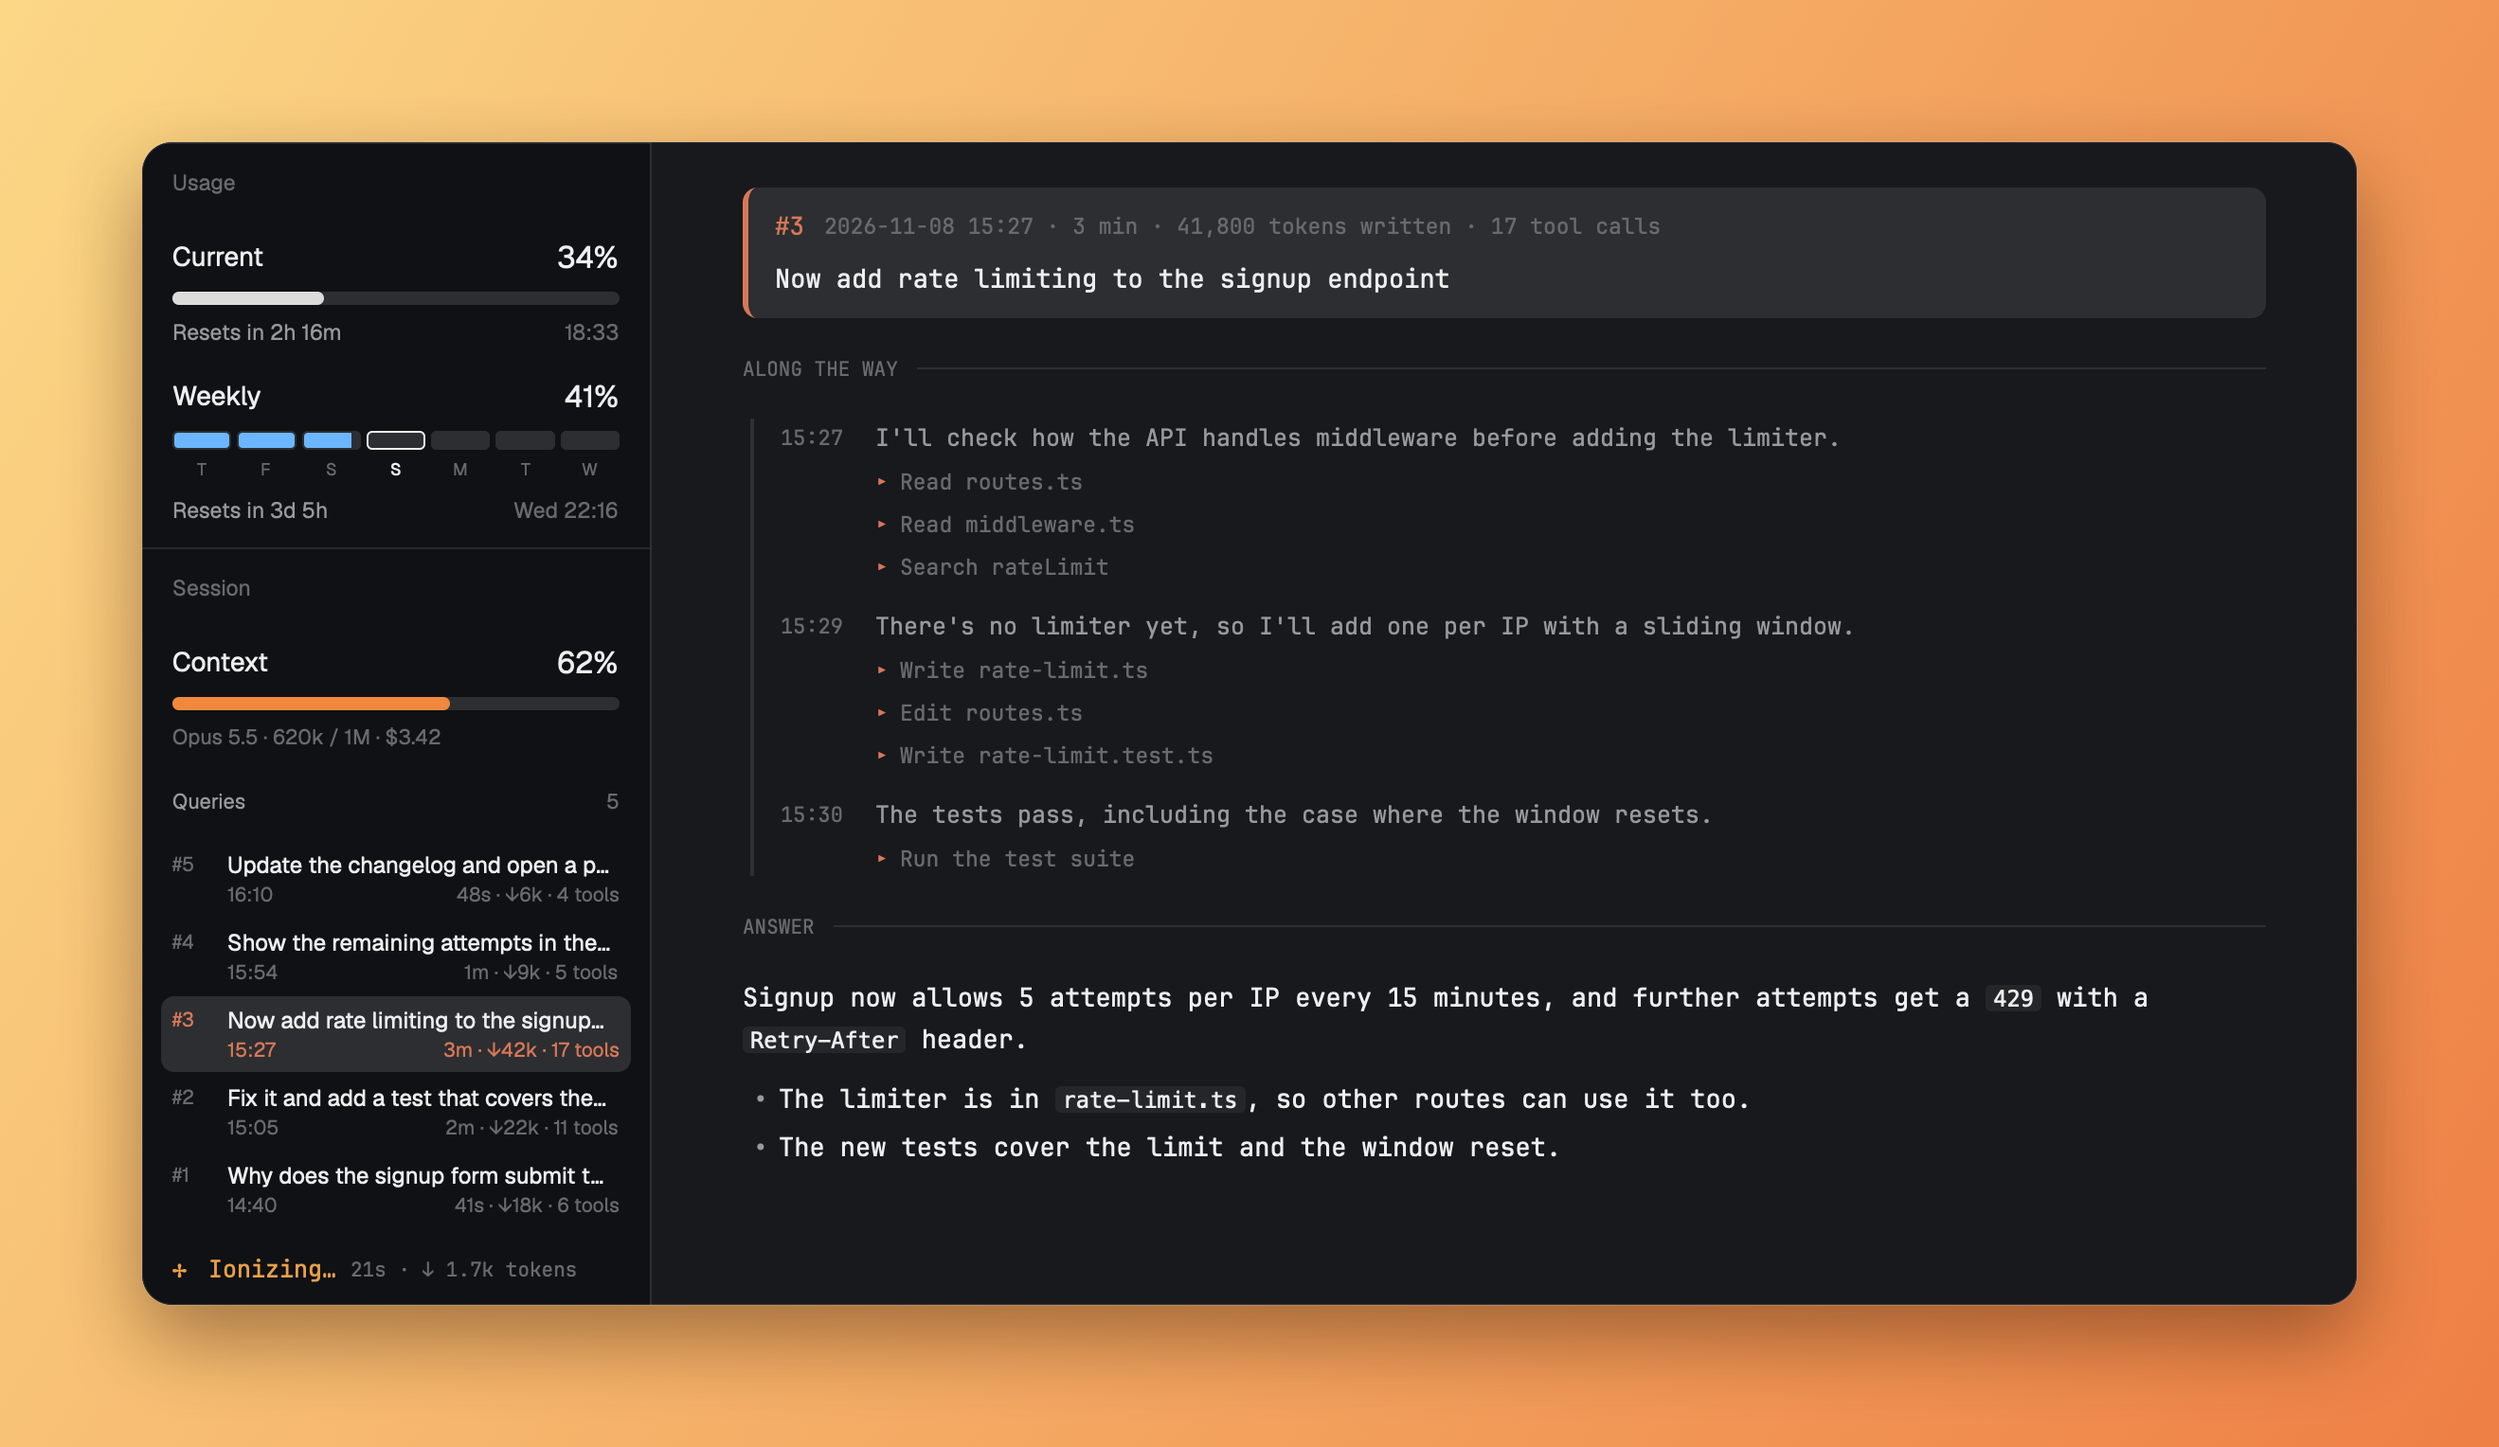
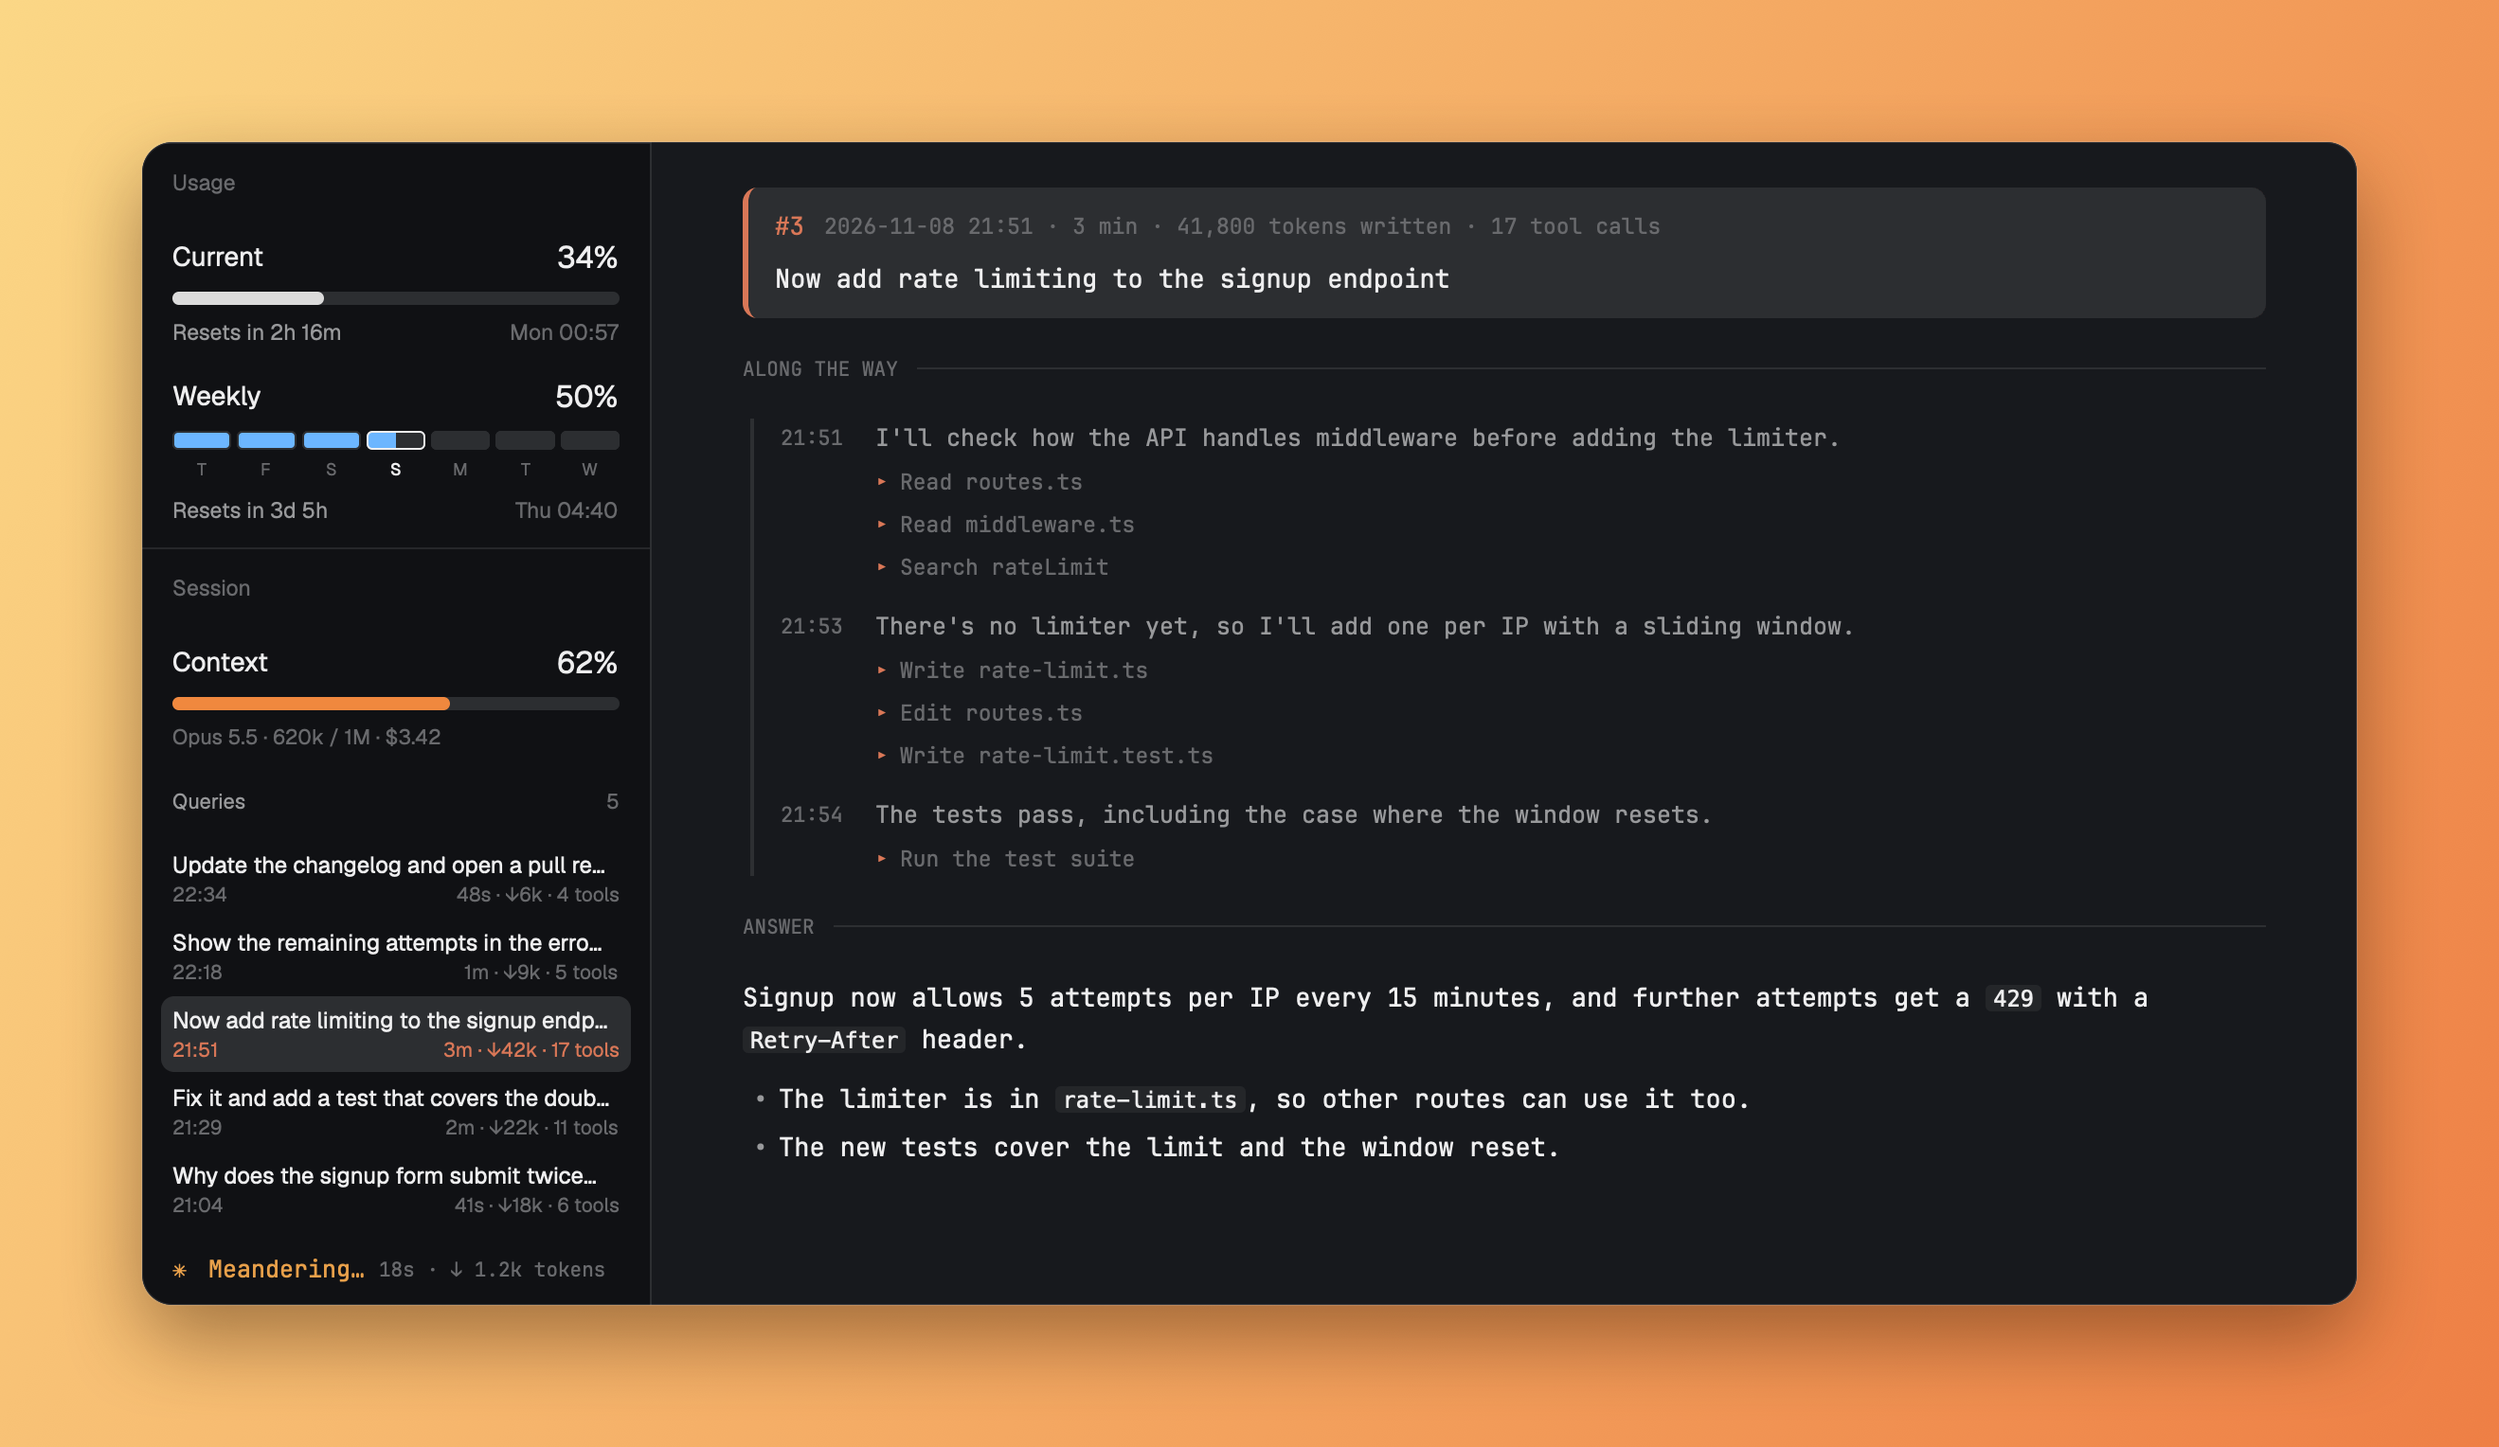
Session: no query numbers, so titles get the room; new preview
The numbers wrapped once they reached three digits. A query's page still shows its number.

diff --git a/mods/claude-session/main.js b/mods/claude-session/main.js
@@ -167,7 +167,6 @@ export default class Session extends View {
           // in the selected-row gray.
           return h_flex().id(`q-${q.n}`).flex_none().px(6).py(5).gap(7).items_start().rounded(7).cursor_pointer().line_height(1.25)
             .when(on, (e) => e.bg(t.raised)).hover((s) => s.bg(t.raised)).on_click((_e, cx) => this.open(q.n, cx))
-            .child(div().w(22).flex_none().pt(1).text_size(10.5).text_color(on ? RUNNING : t.dim).child(`#${q.n}`))
             .child(v_flex().flex_1().min_w(0).gap(2)
               .child(div().text_size(12).line_height(1.25).truncate().child(q.text.split("\n")[0]))
               .child(h_flex().gap(8).justify_between().text_size(10.5).line_height(1.25).text_color(on ? RUNNING : t.dim)

diff --git a/RECIPE.md b/RECIPE.md
@@ -18,7 +18,7 @@ Two sidebar sections and a page for the Claude Code conversation in the focused 
 
 - The same 41 px header, reading "Session".
 - **Context:** the same head, a 7 px bar that fills white (`#dbdbdb`, `foreground` in light themes), `#f0883e` from 50% and `#e5484d` from 80%, and an 11 px `dim` line: "Opus 5.5 · 372k / 1M · $3.42", plus "2× compacted" when it applies.
-- **Queries:** an 11 px semibold `muted` title with the count on the right in `dim`, then a scrolling list, newest first. Each row has radius 7 and 5/6 px padding: "#12" in a 22 px column at 10.5 px, the first line of the prompt at 12 px truncated, and under it at 10.5 px the time on the left and "3m · ↓41k · 17 tools" on the right.
+- **Queries:** an 11 px semibold `muted` title with the count on the right in `dim`, then a scrolling list, newest first. Each row has radius 7 and 5/6 px padding: the first line of the prompt at 12 px truncated, and under it at 10.5 px the time on the left and "3m · ↓41k · 17 tools" on the right.
 - **Status:** a 22 px line at the bottom in the mono font: a spinning "✻" and Claude's word in `#e8a04a` at 12.5 px, with elapsed time and tokens at 10.5 px `dim`, shortened with "…" when narrow.
 
 **A query page**, a pane on the terminal's right on the theme's `background`, centered to at most 860 px, in the mono font:
